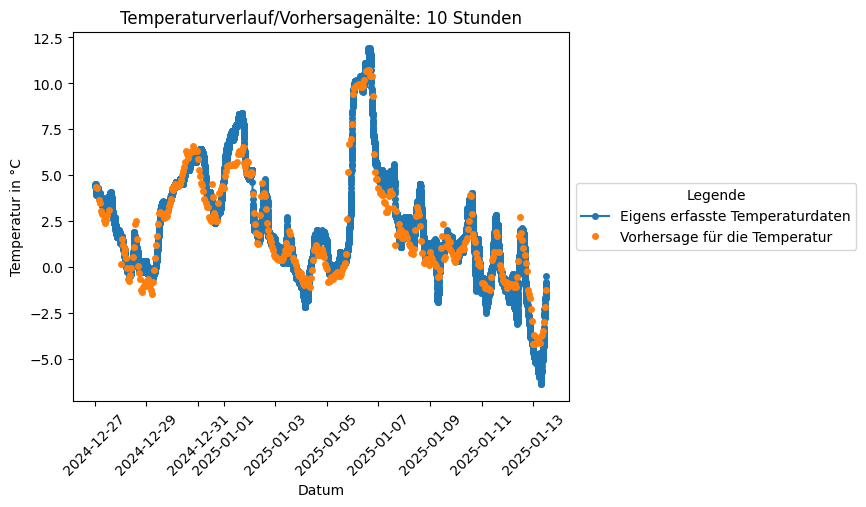
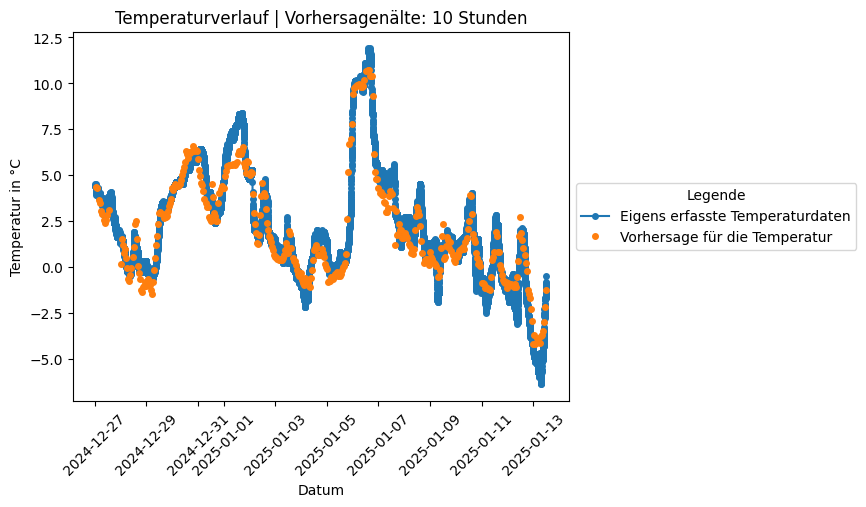
minor change

Changed region(s): [[0.1247, 0.0, 0.6236, 0.0592]]

diff --git a/plotting/plot.py b/plotting/plot.py
@@ -38,7 +38,7 @@ def plot_temp(df_temp_hmd, df_forecast):
         f_df_forecast['temperature'] = df_forecast[f'{time} Hours before'].str.split().str.get(0).astype('float64')
 
         # Gebe jedem Diagramm jeweils den passenden Titel
-        plt.title(f'Temperaturverlauf/Vorhersagenälte: {time} Stunden')
+        plt.title(f'Temperaturverlauf | Vorhersagenälte: {time} Stunden')
 
         # Plotte die Vorhersagedaten
         plt.plot(f_df_forecast['date'], f_df_forecast['temperature'], marker='o', color = colors_now, linestyle = '', ms=4, label='Vorhersage für die Temperatur')
@@ -88,7 +88,7 @@ def plot_hmd(df_temp_hmd, df_forecast):
         f_df_forecast['humidity'] = df_forecast[f'{time} Hours before'].str.split().str.get(1).astype('float64')
 
         # Gebe jedem Diagramm jeweils den passenden Titel
-        plt.title(f'Luftfeuchtigkeitsverlauf/Vorhersagenälte: {time} Stunden')
+        plt.title(f'Luftfeuchtigkeitsverlauf | Vorhersagenälte: {time} Stunden')
 
         # Plotte die Vorhersagedaten
         plt.plot(f_df_forecast['date'], f_df_forecast['humidity'], marker='o', color = colors_now, linestyle = '', ms=4, label='Vorhersage für die Luftfeuchtigkeit')
